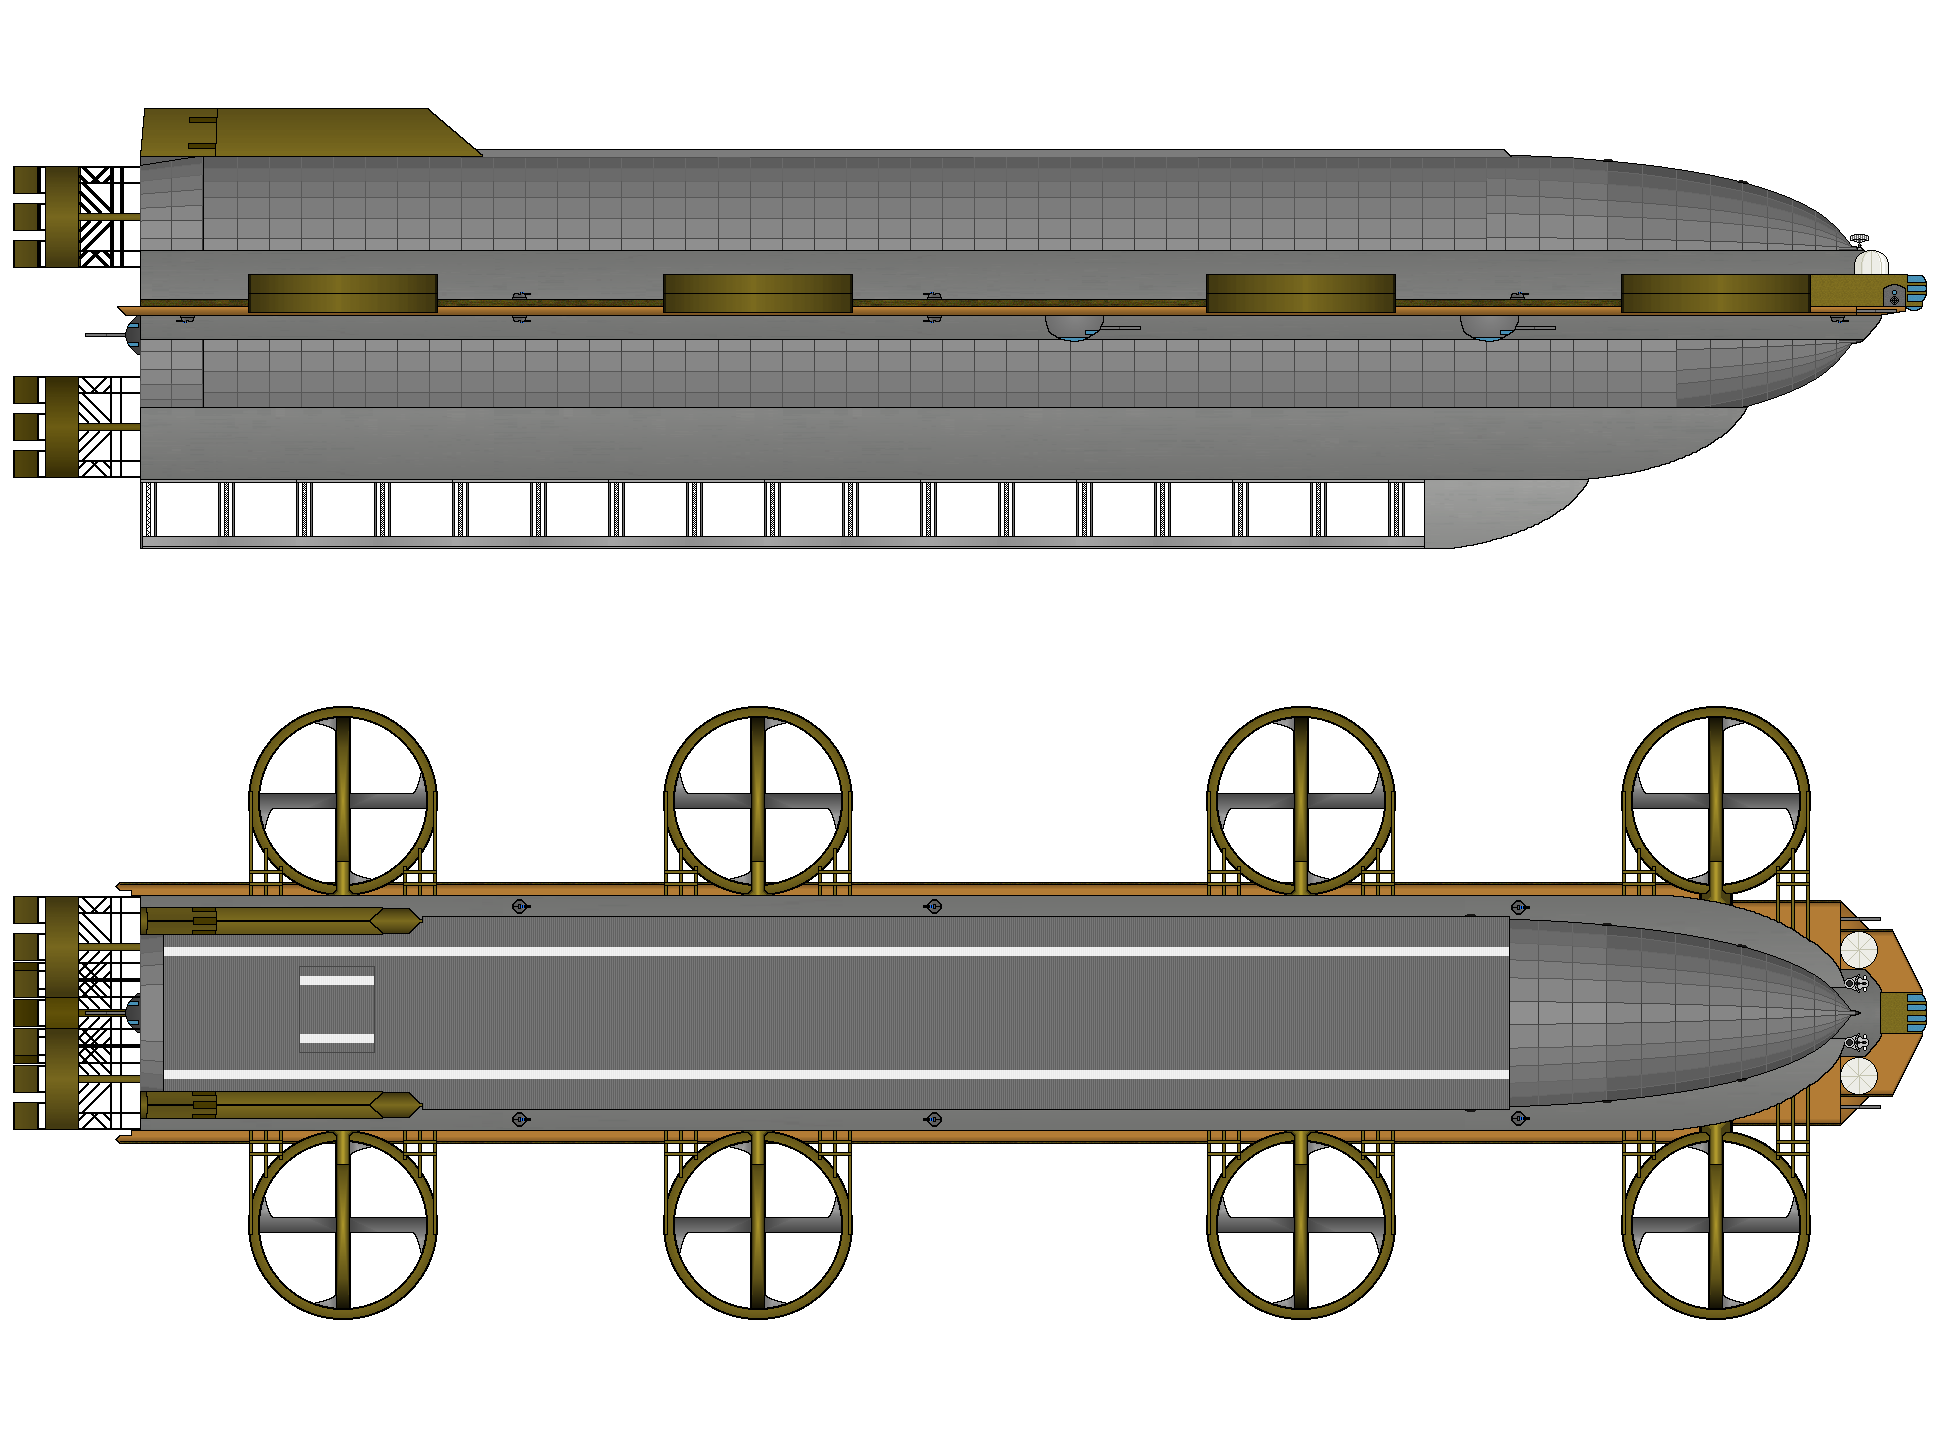
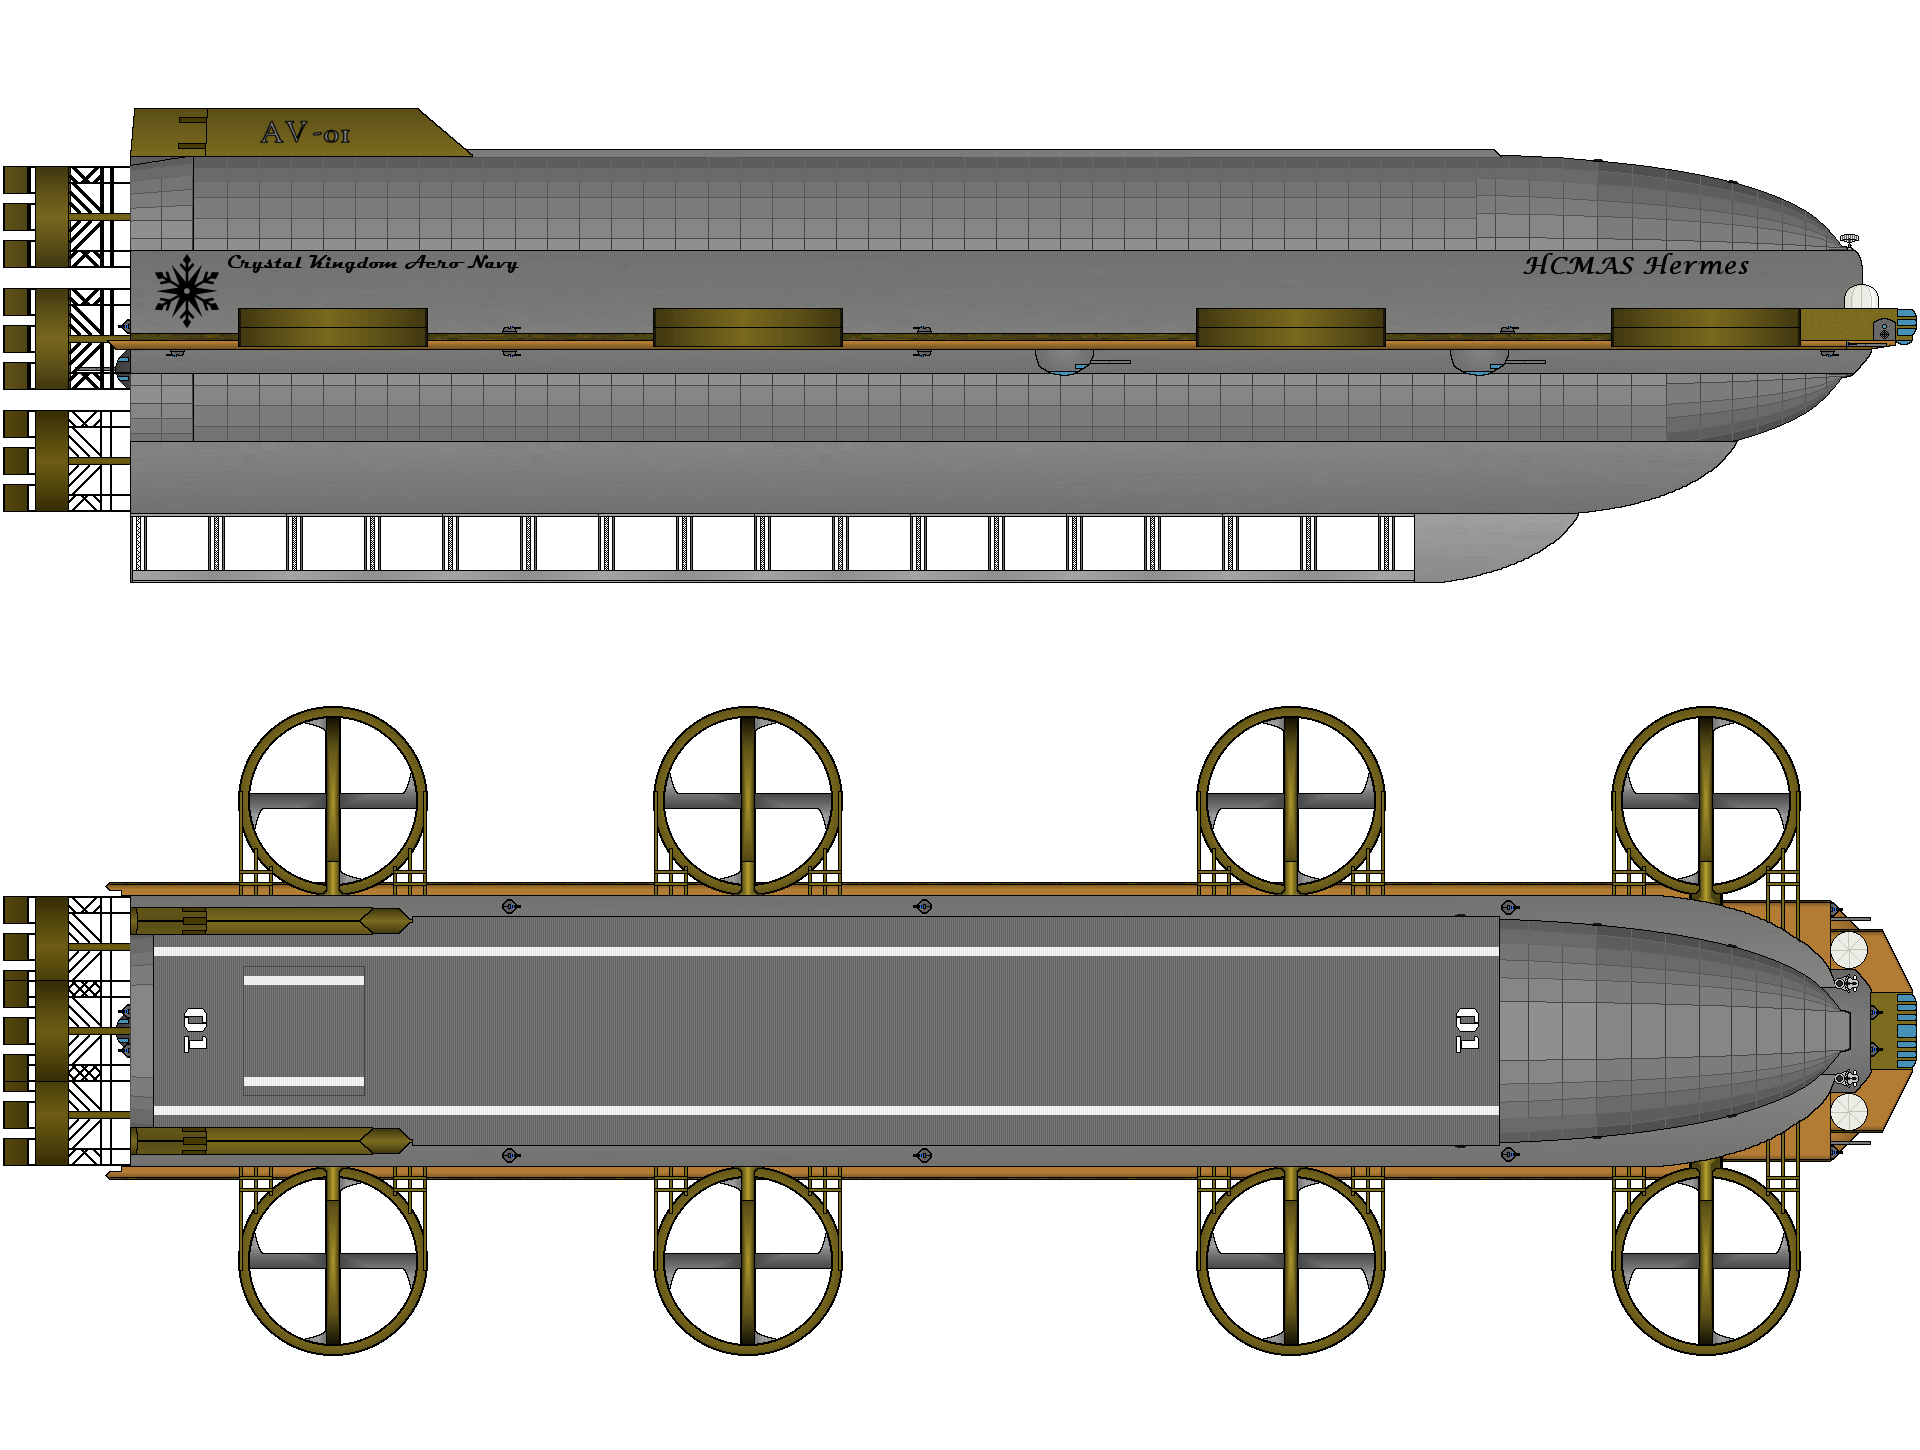
Add files via upload

diff --git a/WIM_CK_Ship.html b/WIM_CK_Ship.html
@@ -462,10 +462,10 @@ function includeHTML() {
     <TD style="width:400px;; color:#F0F0F0; font-size:14px; font-family:Courier;">Aero Carrier</TD>
 
 	<TD style="width:225px;; color:#EFEFEF; font-size:16px; font-family:Courier;"><b>ENGINES:</TD>
-	<TD style="width:400px;; color:#F0F0F0; font-size:14px; font-family:Courier;">18 Diamond-Merietta DF-9 Diesel Engines</TD>
+	<TD style="width:400px;; color:#F0F0F0; font-size:14px; font-family:Courier;">18 Diamond-Merietta DF-11 Diesel Engines</TD>
 
 	<TD style="width:225px;; color:#EFEFEF; font-size:16px; font-family:Courier;"><b>FANS:</TD>
-	<TD style="width:400px;; color:#F0F0F0; font-size:14px; font-family:Courier;">8 Arbette NR-32 Ducted, 4 Axial-Quartzon NT-16 Driver</TD>
+	<TD style="width:400px;; color:#F0F0F0; font-size:14px; font-family:Courier;">8 Arbette NR-33 Ducted, 4 Axial-Quartzon NT-18 Driver</TD>
 
 	<TD style="width:225px;; color:#EFEFEF; font-size:16px; font-family:Courier;"><b>SPEED:</TD>
 	<TD style="width:400px;; color:#F0F0F0; font-size:14px; font-family:Courier;">80kts</TD>
@@ -482,7 +482,7 @@ function includeHTML() {
 	<TD style="width:400px;; color:#F0F0F0; font-size:14px; font-family:Courier;"><i>None</TD>
 
 	<TD style="width:225px;; color:#EFEFEF; font-size:16px; font-family:Courier;"><b>MACHINE GUNS:</TD>
-	<TD style="width:400px;; color:#F0F0F0; font-size:14px; font-family:Courier;">12 x 1 20mm Gatling</TD>
+	<TD style="width:400px;; color:#F0F0F0; font-size:14px; font-family:Courier;">20 x 1 20mm Gatling</TD>
 </TR>
 <TR>
 	<TD style="width:225px;; color:#EFEFEF; font-size:16px; font-family:Courier;"><b>OVERALL LENGTH:</TD>
@@ -492,14 +492,14 @@ function includeHTML() {
 	<TD style="width:400px;; color:#F0F0F0; font-size:14px; font-family:Courier;">1 Upper Take-Off Deck, 1 Middeck/Hangar, 1 Landing Deck</TD>
 
 	<TD style="width:225px;; color:#EFEFEF; font-size:16px; font-family:Courier;"><b>BEAM:</TD>
-	<TD style="width:400px;; color:#F0F0F0; font-size:14px; font-family:Courier;">61.4 meters/201 feet</TD>
+	<TD style="width:400px;; color:#F0F0F0; font-size:14px; font-family:Courier;">65 meters/213 feet</TD>
 
 	<TD style="width:225px;; color:#EFEFEF; font-size:16px; font-family:Courier;"><b>HEIGHT:</TD>
-	<TD style="width:400px;; color:#F0F0F0; font-size:14px; font-family:Courier;">44 meters/144 feet</TD>
+	<TD style="width:400px;; color:#F0F0F0; font-size:14px; font-family:Courier;">47.5 meters/156 feet</TD>
 </TR>
 <TR>
 	<TD style="width:225px;; color:#EFEFEF; font-size:16px; font-family:Courier;"><b>TRANSIT RANGE:</TD>
-	<TD style="width:400px;; color:#F0F0F0; font-size:14px; font-family:Courier;">2550 nmi</TD>
+	<TD style="width:400px;; color:#F0F0F0; font-size:14px; font-family:Courier;">8550 nmi</TD>
 
 	<TD style="width:225px;; color:#EFEFEF; font-size:16px; font-family:Courier;"><b>TOTAL CREW:</TD>
 	<TD style="width:400px;; color:#F0F0F0; font-size:14px; font-family:Courier;">200 Enlisted, 50 Petty Officers, 25 Officers, 80 Passengers</TD>
@@ -512,7 +512,7 @@ function includeHTML() {
 </TR>
 
 <TR>
-	<TD width=1820 colspan=12><center><table width=1810><TR><TD>Somewhat based on the Centaur Class, but longer, the Hermes Class is a literal flying aircraft carrier. While on the smaller end for an aircraft compliment, the fact that it can strike from literally anywhere is a testament to its flexibility. Combined with the neutral bouyancy of its aircraft, it can lauch, recover, and refuel/rearm aircraft at the same rate as an Equestrian Supercarrier. Combined with its escorts providing coverage, and its modernized arms, the Hermes Class can perform all manner of strike missions, and special operations missions with parachutes, or helicopters. Of note, her 5-inch guns and 20mm guns are entirely automated with computer control and radar guidance, but can also be targeted manually from the Combat Information Center.</TD></TR></Table></TD>
+	<TD width=1820 colspan=12><center><table width=1810><TR><TD>Somewhat based on the <i>Centaur Class,</i> but longer, taller, and wider, the <i>Hermes Class</i> is a literal flying aircraft carrier. While on the smaller end for an aircraft compliment, the fact that it can strike from literally anywhere is a testament to its flexibility. Combined with the neutral bouyancy of its aircraft, it can lauch, recover, and refuel/rearm aircraft at the same rate as an Equestrian Supercarrier. Combined with its escorts providing coverage, and its modernized arms, the <i>Hermes Class</i> can perform all manner of strike missions, and special operations missions with parachutes, or helicopters. Of note, her 5-inch guns and 20mm guns are entirely automated with computer control and radar guidance, but can also be targeted manually from the Combat Information Center.</TD></TR></Table></TD>
 </TR>
 </Table>
 
